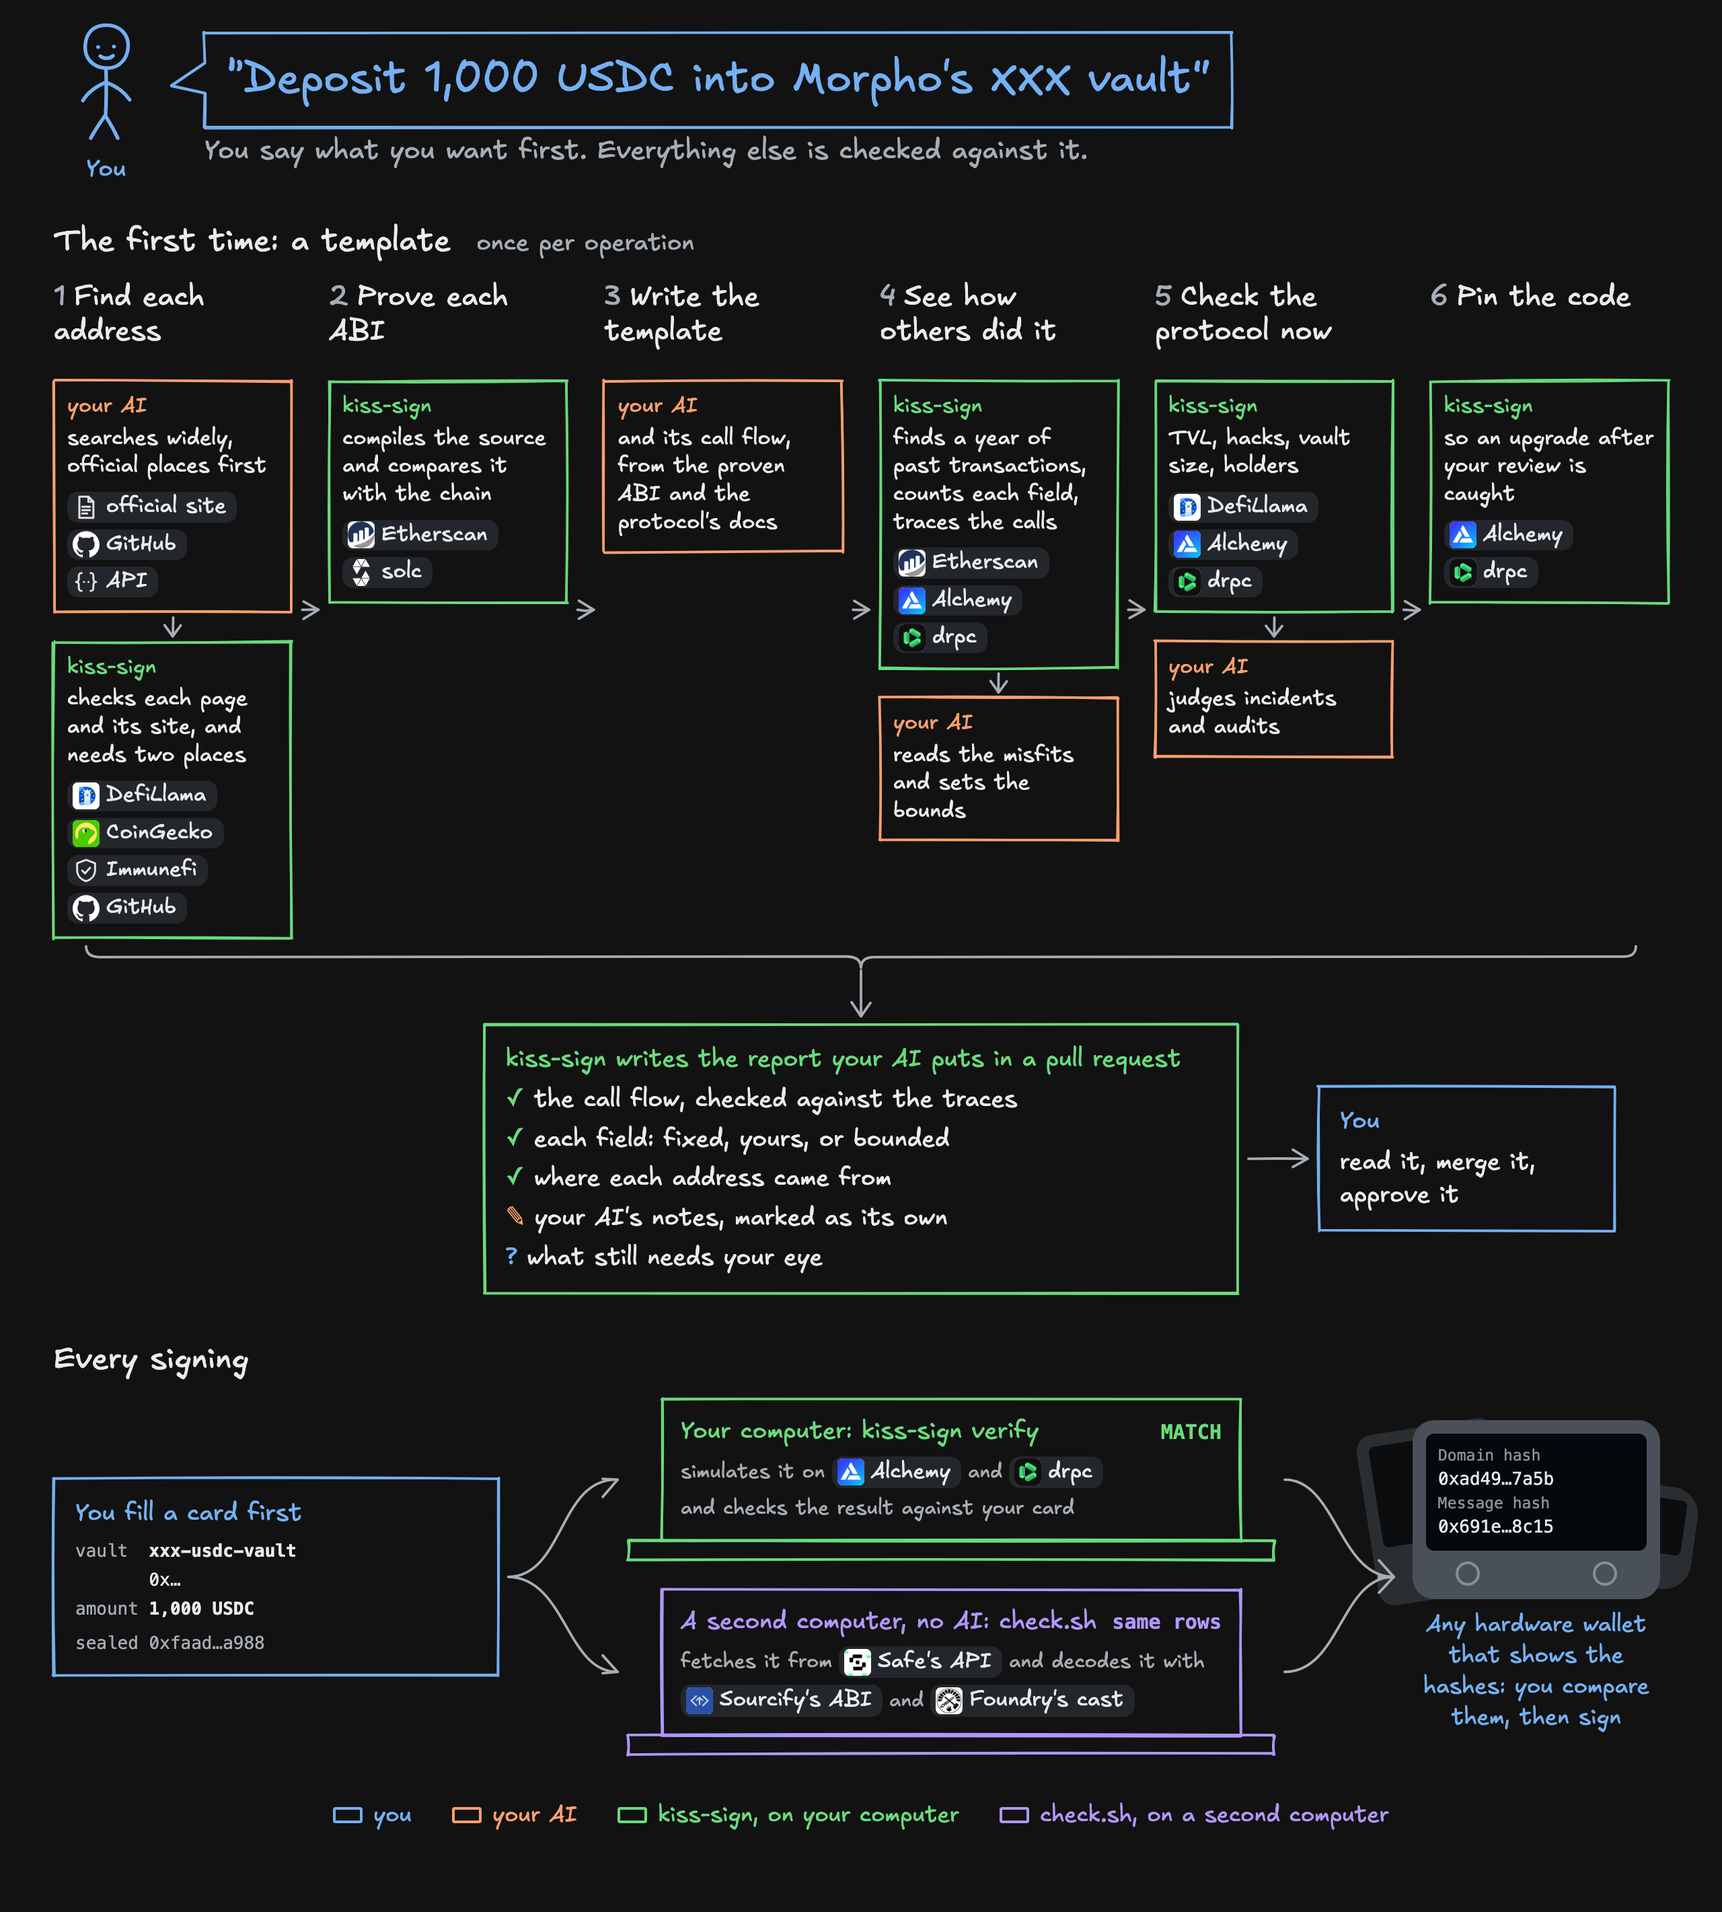
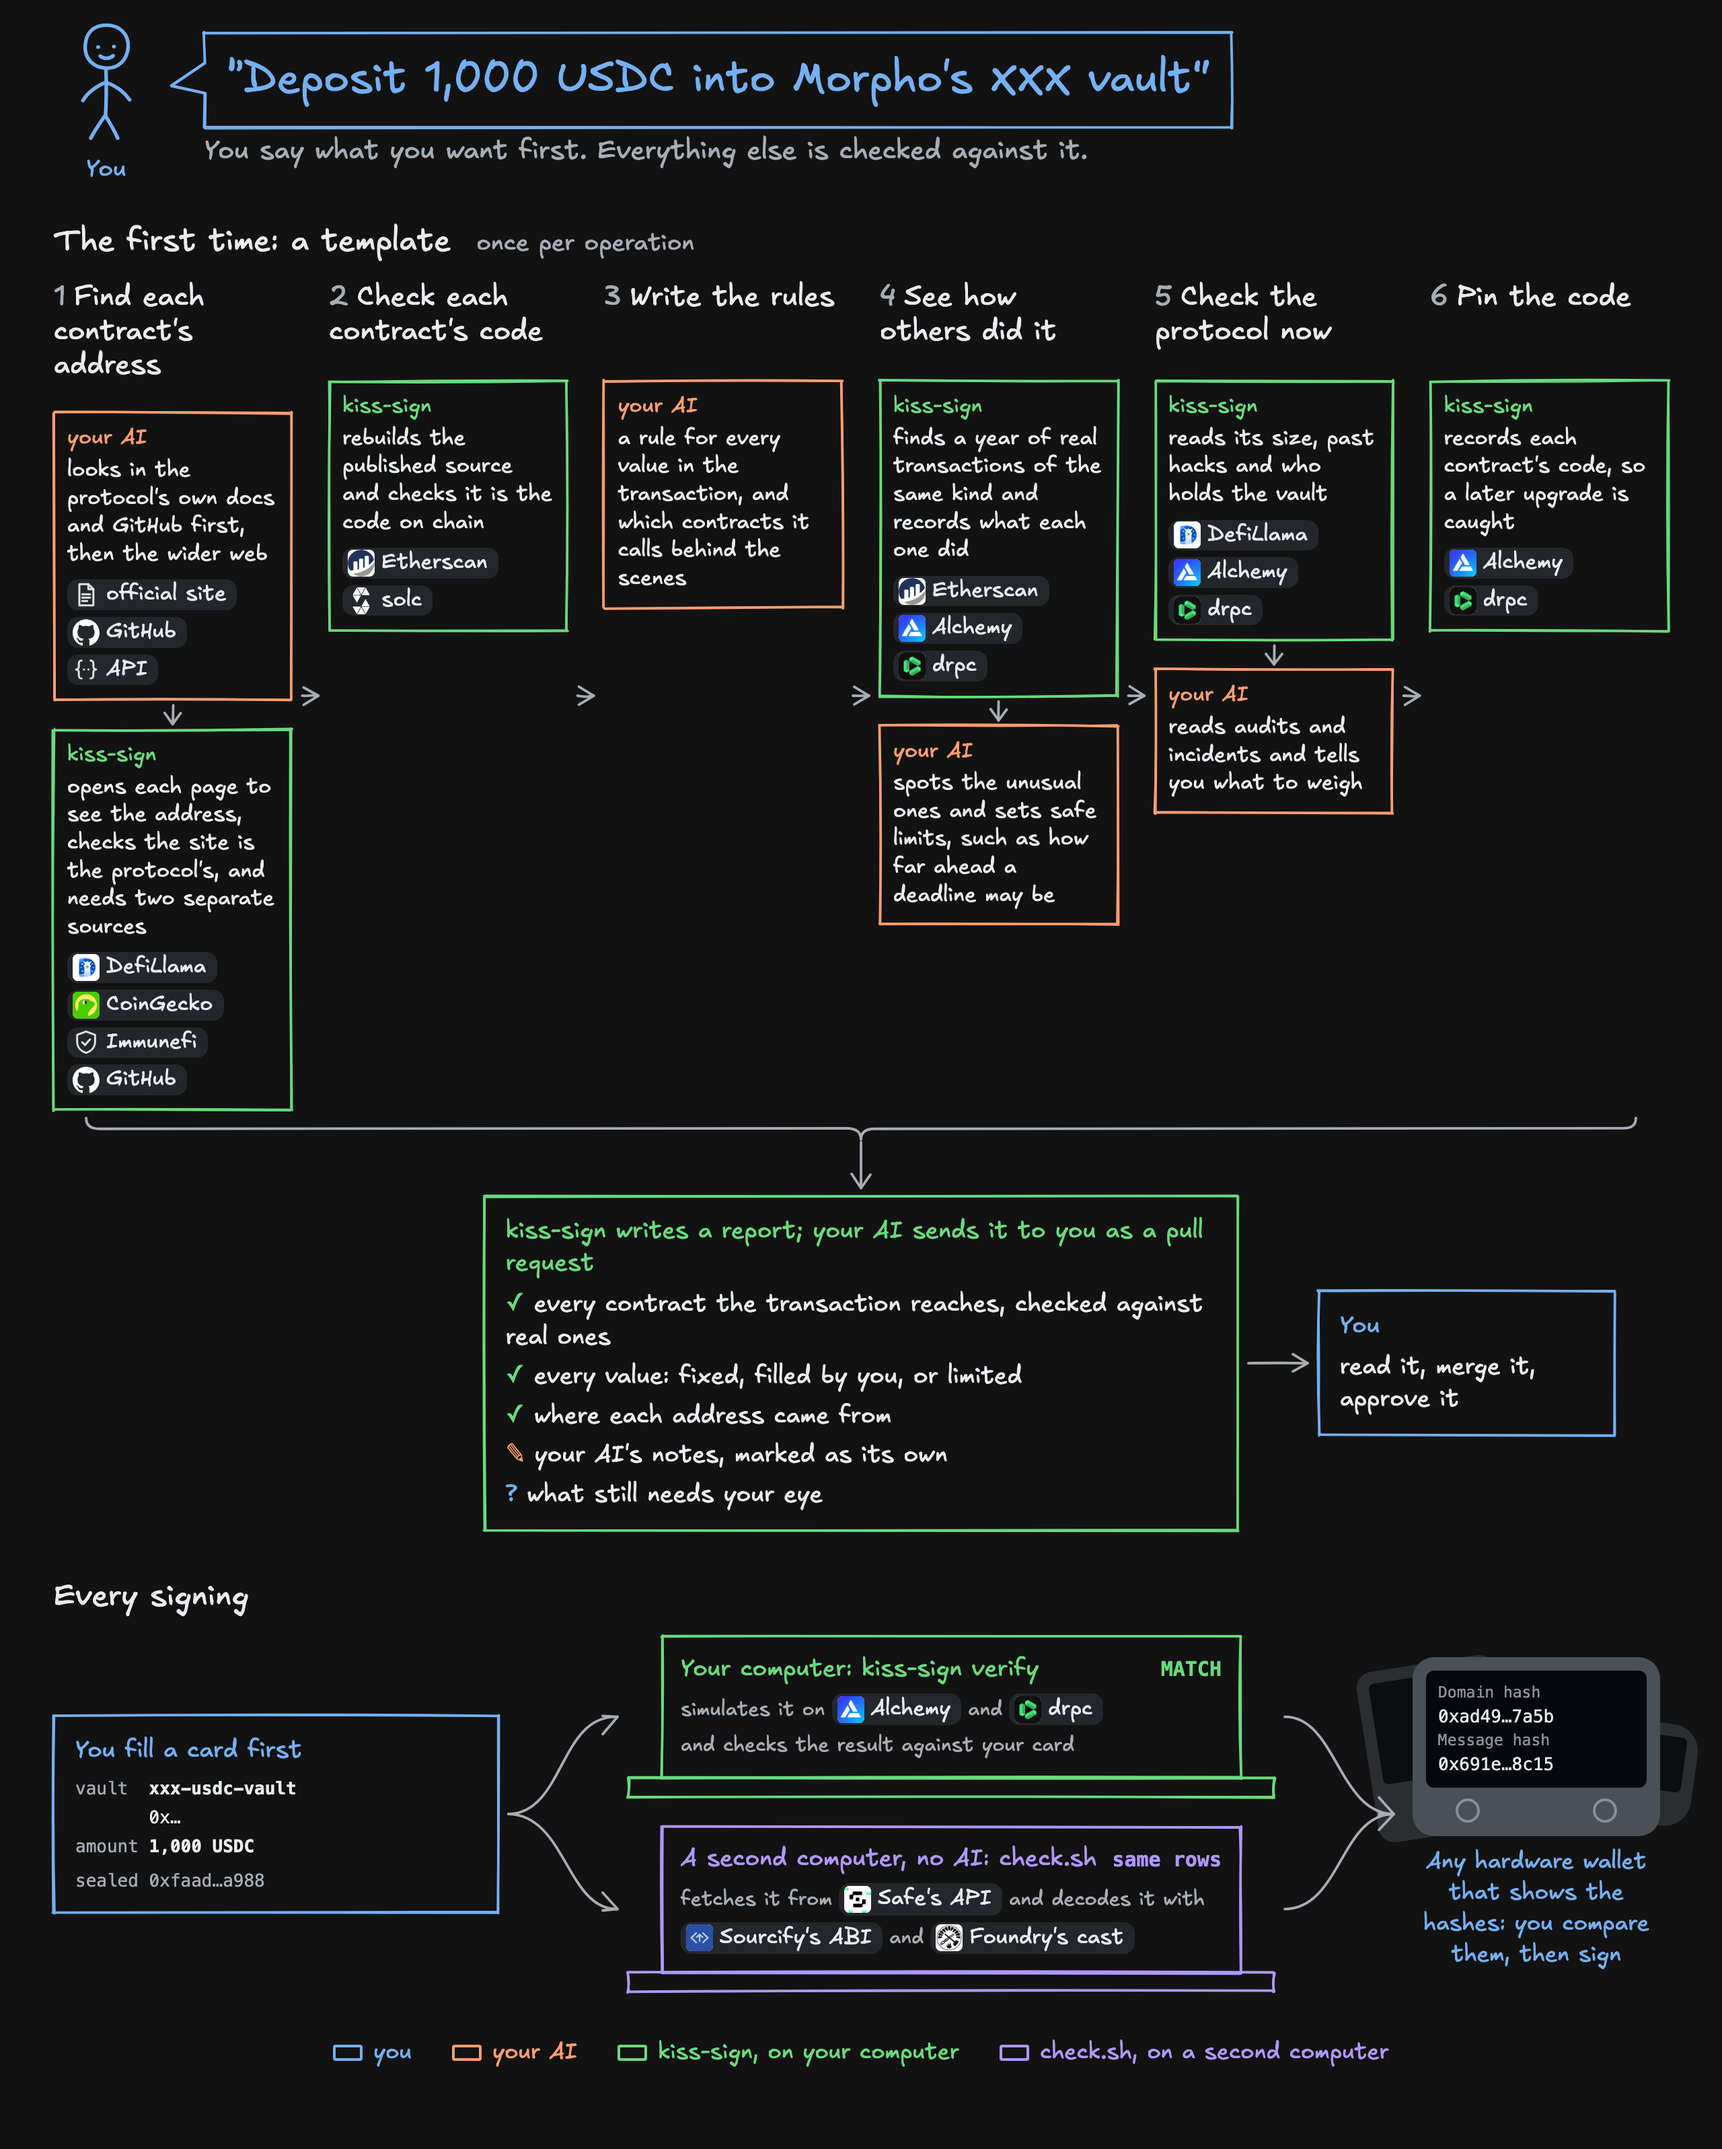
README overview: plain words in every step
The owner found phrases such as "its call flow" and "sets the bounds" hard
for a newcomer; each step now says what happens in everyday words.

Claude-Session: https://claude.ai/code/session_019EpkRikTD1KbjKp9L1wtSS

diff --git a/docs/diagrams/readme-overview.html b/docs/diagrams/readme-overview.html
@@ -117,18 +117,18 @@
   <h2>The first time: a template <b>once per operation</b></h2>
   <div class="chain" id="chain">
     <div class="steps">
-      <div class="step" id="s1"><div class="t"><span class="n">1</span>Find each address</div><div class="sk part ai"><div class="who">your AI</div><div>searches widely, official places first</div><div class="logos"><span class="lg"><img class="mono-logo" src="logos/docs.svg" alt="">official site</span><span class="lg"><img class="mono-logo" src="logos/github.svg" alt="">GitHub</span><span class="lg"><img class="mono-logo" src="logos/api.svg" alt="">API</span></div></div><div class="sk part prog"><div class="who">kiss-sign</div><div>checks each page and its site, and needs two places</div><div class="logos"><span class="lg"><img src="logos/defillama.jpg" alt="">DefiLlama</span><span class="lg"><img src="logos/coingecko.png" alt="">CoinGecko</span><span class="lg"><img class="mono-logo" src="logos/bounty.svg" alt="">Immunefi</span><span class="lg"><img class="mono-logo" src="logos/github.svg" alt="">GitHub</span></div></div></div>
-      <div class="step" id="s2"><div class="t"><span class="n">2</span>Prove each ABI</div><div class="sk part prog"><div class="who">kiss-sign</div><div>compiles the source and compares it with the chain</div><div class="logos"><span class="lg"><img src="logos/etherscan.svg" alt="">Etherscan</span><span class="lg"><img class="mono-logo" src="logos/solidity.svg" alt="">solc</span></div></div></div>
-      <div class="step" id="s3"><div class="t"><span class="n">3</span>Write the template</div><div class="sk part ai"><div class="who">your AI</div><div>and its call flow, from the proven ABI and the protocol's docs</div></div></div>
-      <div class="step" id="s4"><div class="t"><span class="n">4</span>See how others did it</div><div class="sk part prog"><div class="who">kiss-sign</div><div>finds a year of past transactions, counts each field, traces the calls</div><div class="logos"><span class="lg"><img src="logos/etherscan.svg" alt="">Etherscan</span><span class="lg"><img src="logos/alchemy.png" alt="">Alchemy</span><span class="lg"><img src="logos/drpc.png" alt="">drpc</span></div></div><div class="sk part ai"><div class="who">your AI</div><div>reads the misfits and sets the bounds</div></div></div>
-      <div class="step" id="s5"><div class="t"><span class="n">5</span>Check the protocol now</div><div class="sk part prog"><div class="who">kiss-sign</div><div>TVL, hacks, vault size, holders</div><div class="logos"><span class="lg"><img src="logos/defillama.jpg" alt="">DefiLlama</span><span class="lg"><img src="logos/alchemy.png" alt="">Alchemy</span><span class="lg"><img src="logos/drpc.png" alt="">drpc</span></div></div><div class="sk part ai"><div class="who">your AI</div><div>judges incidents and audits</div></div></div>
-      <div class="step" id="s6"><div class="t"><span class="n">6</span>Pin the code</div><div class="sk part prog"><div class="who">kiss-sign</div><div>so an upgrade after your review is caught</div><div class="logos"><span class="lg"><img src="logos/alchemy.png" alt="">Alchemy</span><span class="lg"><img src="logos/drpc.png" alt="">drpc</span></div></div></div>
+      <div class="step" id="s1"><div class="t"><span class="n">1</span>Find each contract's address</div><div class="sk part ai"><div class="who">your AI</div><div>looks in the protocol's own docs and GitHub first, then the wider web</div><div class="logos"><span class="lg"><img class="mono-logo" src="logos/docs.svg" alt="">official site</span><span class="lg"><img class="mono-logo" src="logos/github.svg" alt="">GitHub</span><span class="lg"><img class="mono-logo" src="logos/api.svg" alt="">API</span></div></div><div class="sk part prog"><div class="who">kiss-sign</div><div>opens each page to see the address, checks the site is the protocol's, and needs two separate sources</div><div class="logos"><span class="lg"><img src="logos/defillama.jpg" alt="">DefiLlama</span><span class="lg"><img src="logos/coingecko.png" alt="">CoinGecko</span><span class="lg"><img class="mono-logo" src="logos/bounty.svg" alt="">Immunefi</span><span class="lg"><img class="mono-logo" src="logos/github.svg" alt="">GitHub</span></div></div></div>
+      <div class="step" id="s2"><div class="t"><span class="n">2</span>Check each contract's code</div><div class="sk part prog"><div class="who">kiss-sign</div><div>rebuilds the published source and checks it is the code on chain</div><div class="logos"><span class="lg"><img src="logos/etherscan.svg" alt="">Etherscan</span><span class="lg"><img class="mono-logo" src="logos/solidity.svg" alt="">solc</span></div></div></div>
+      <div class="step" id="s3"><div class="t"><span class="n">3</span>Write the rules</div><div class="sk part ai"><div class="who">your AI</div><div>a rule for every value in the transaction, and which contracts it calls behind the scenes</div></div></div>
+      <div class="step" id="s4"><div class="t"><span class="n">4</span>See how others did it</div><div class="sk part prog"><div class="who">kiss-sign</div><div>finds a year of real transactions of the same kind and records what each one did</div><div class="logos"><span class="lg"><img src="logos/etherscan.svg" alt="">Etherscan</span><span class="lg"><img src="logos/alchemy.png" alt="">Alchemy</span><span class="lg"><img src="logos/drpc.png" alt="">drpc</span></div></div><div class="sk part ai"><div class="who">your AI</div><div>spots the unusual ones and sets safe limits, such as how far ahead a deadline may be</div></div></div>
+      <div class="step" id="s5"><div class="t"><span class="n">5</span>Check the protocol now</div><div class="sk part prog"><div class="who">kiss-sign</div><div>reads its size, past hacks and who holds the vault</div><div class="logos"><span class="lg"><img src="logos/defillama.jpg" alt="">DefiLlama</span><span class="lg"><img src="logos/alchemy.png" alt="">Alchemy</span><span class="lg"><img src="logos/drpc.png" alt="">drpc</span></div></div><div class="sk part ai"><div class="who">your AI</div><div>reads audits and incidents and tells you what to weigh</div></div></div>
+      <div class="step" id="s6"><div class="t"><span class="n">6</span>Pin the code</div><div class="sk part prog"><div class="who">kiss-sign</div><div>records each contract's code, so a later upgrade is caught</div><div class="logos"><span class="lg"><img src="logos/alchemy.png" alt="">Alchemy</span><span class="lg"><img src="logos/drpc.png" alt="">drpc</span></div></div></div>
     </div>
   </div>
   <div class="then">
     <div class="sk prog report" id="report">
-      <div class="who">kiss-sign writes the report your AI puts in a pull request</div>
-      <ul><li>the call flow, checked against the traces</li><li>each field: fixed, yours, or bounded</li><li>where each address came from</li><li class="ai">your AI's notes, marked as its own</li><li class="q">what still needs your eye</li></ul>
+      <div class="who">kiss-sign writes a report; your AI sends it to you as a pull request</div>
+      <ul><li>every contract the transaction reaches, checked against real ones</li><li>every value: fixed, filled by you, or limited</li><li>where each address came from</li><li class="ai">your AI's notes, marked as its own</li><li class="q">what still needs your eye</li></ul>
     </div>
     <div class="sk you merge" id="merge">
       <div class="who">You</div>

diff --git a/README.md b/README.md
@@ -16,7 +16,7 @@ Signing tools today show you a transaction and ask whether it looks right. Your 
 
 <picture>
   <source media="(prefers-color-scheme: dark)" srcset="docs/readme/overview-dark.png">
-  <img src="docs/readme/overview.png" alt="kiss-sign at a glance. You say what you want. Once per operation, your AI finds each address and kiss-sign confirms it in at least two places; kiss-sign proves each ABI; your AI writes the template and its call flow; kiss-sign studies a year of past transactions and your AI sets the bounds; kiss-sign reads TVL, hacks and the vault's size and your AI judges incidents and audits; kiss-sign pins the code and writes the report, with your AI's notes marked, which your AI puts in a pull request for you to review, merge and approve. At every signing you fill a card; kiss-sign verify simulates the transaction on two providers and checks it against the card; a second computer decodes it on its own with check.sh; and you compare the hashes on your hardware wallet before signing.">
+  <img src="docs/readme/overview.png" alt="kiss-sign at a glance. You say what you want. Once per operation, your AI finds each contract's address and kiss-sign confirms it in two separate sources; kiss-sign checks each contract's code is its published source; your AI writes a rule for every value in the transaction and lists the contracts it calls behind the scenes; kiss-sign finds a year of real transactions of the same kind and your AI sets safe limits from them; kiss-sign reads the protocol's size, past hacks and holders and your AI weighs audits and incidents; kiss-sign records each contract's code so a later upgrade is caught, and writes a report, with your AI's notes marked, which your AI sends you as a pull request to read, merge and approve. At every signing you fill a card; kiss-sign verify simulates the transaction on two providers and checks it against the card; a second computer decodes it on its own with check.sh; and you compare the hashes on your hardware wallet before signing.">
 </picture>
 
 ## Contents
